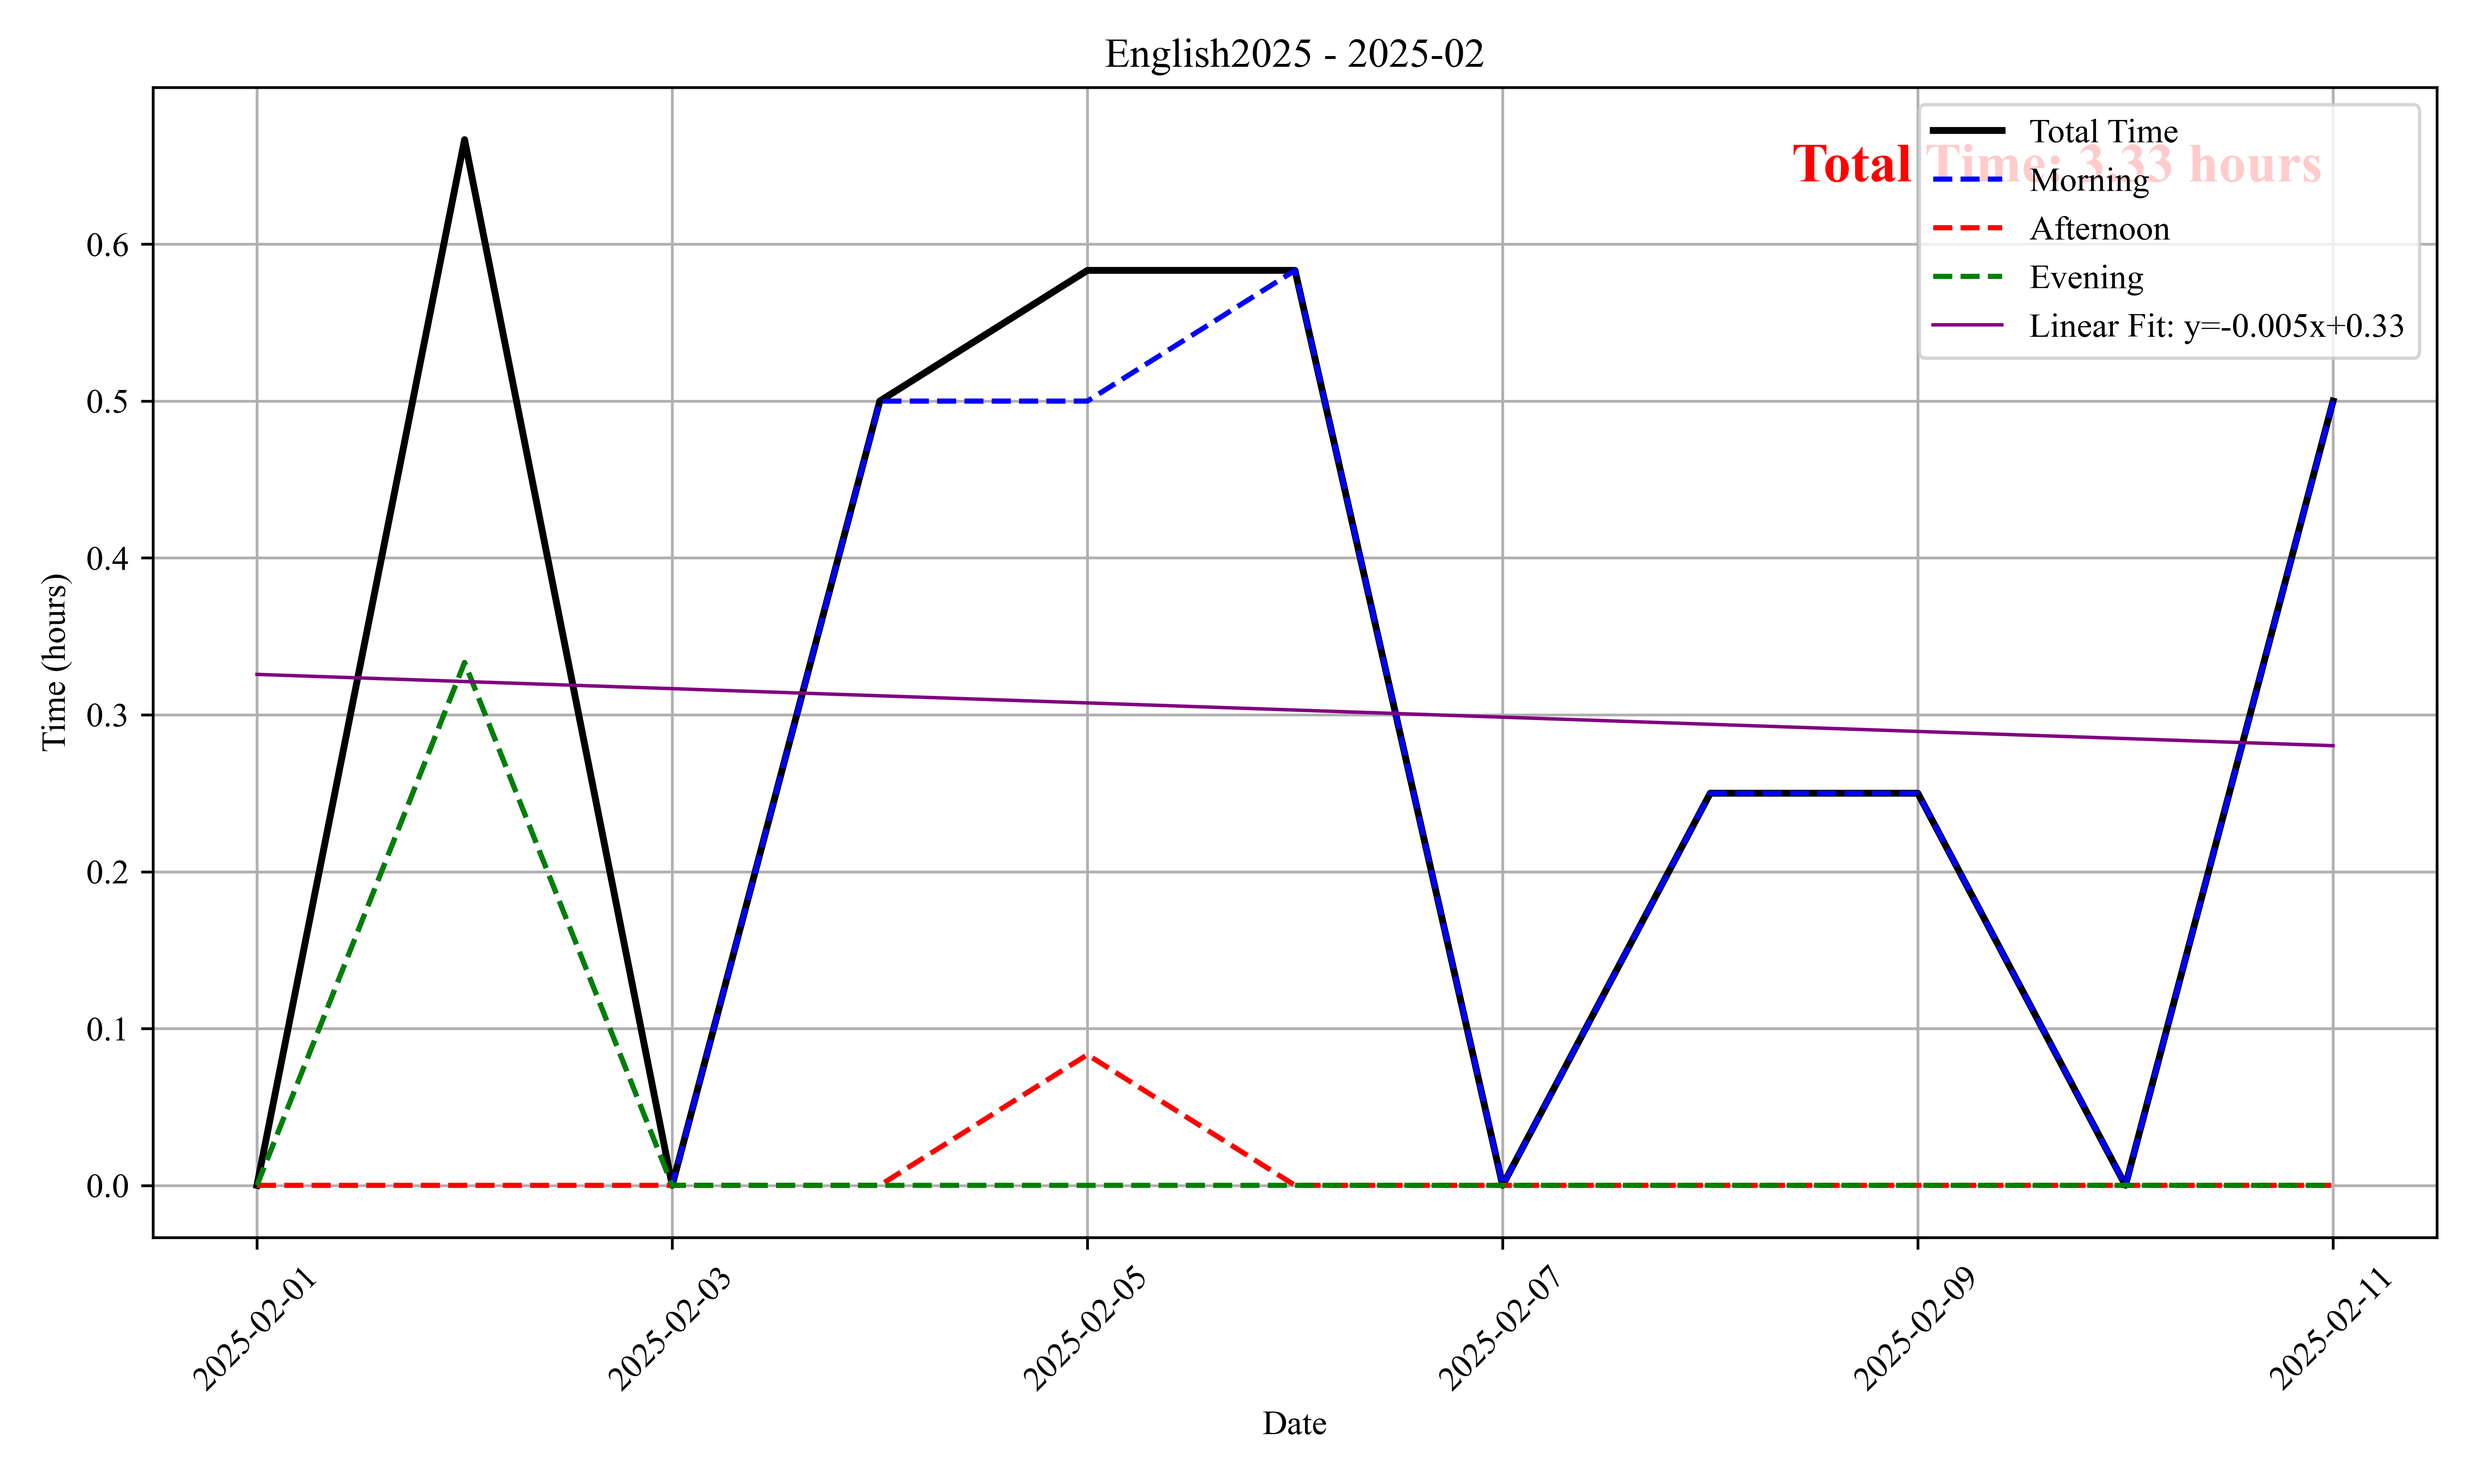
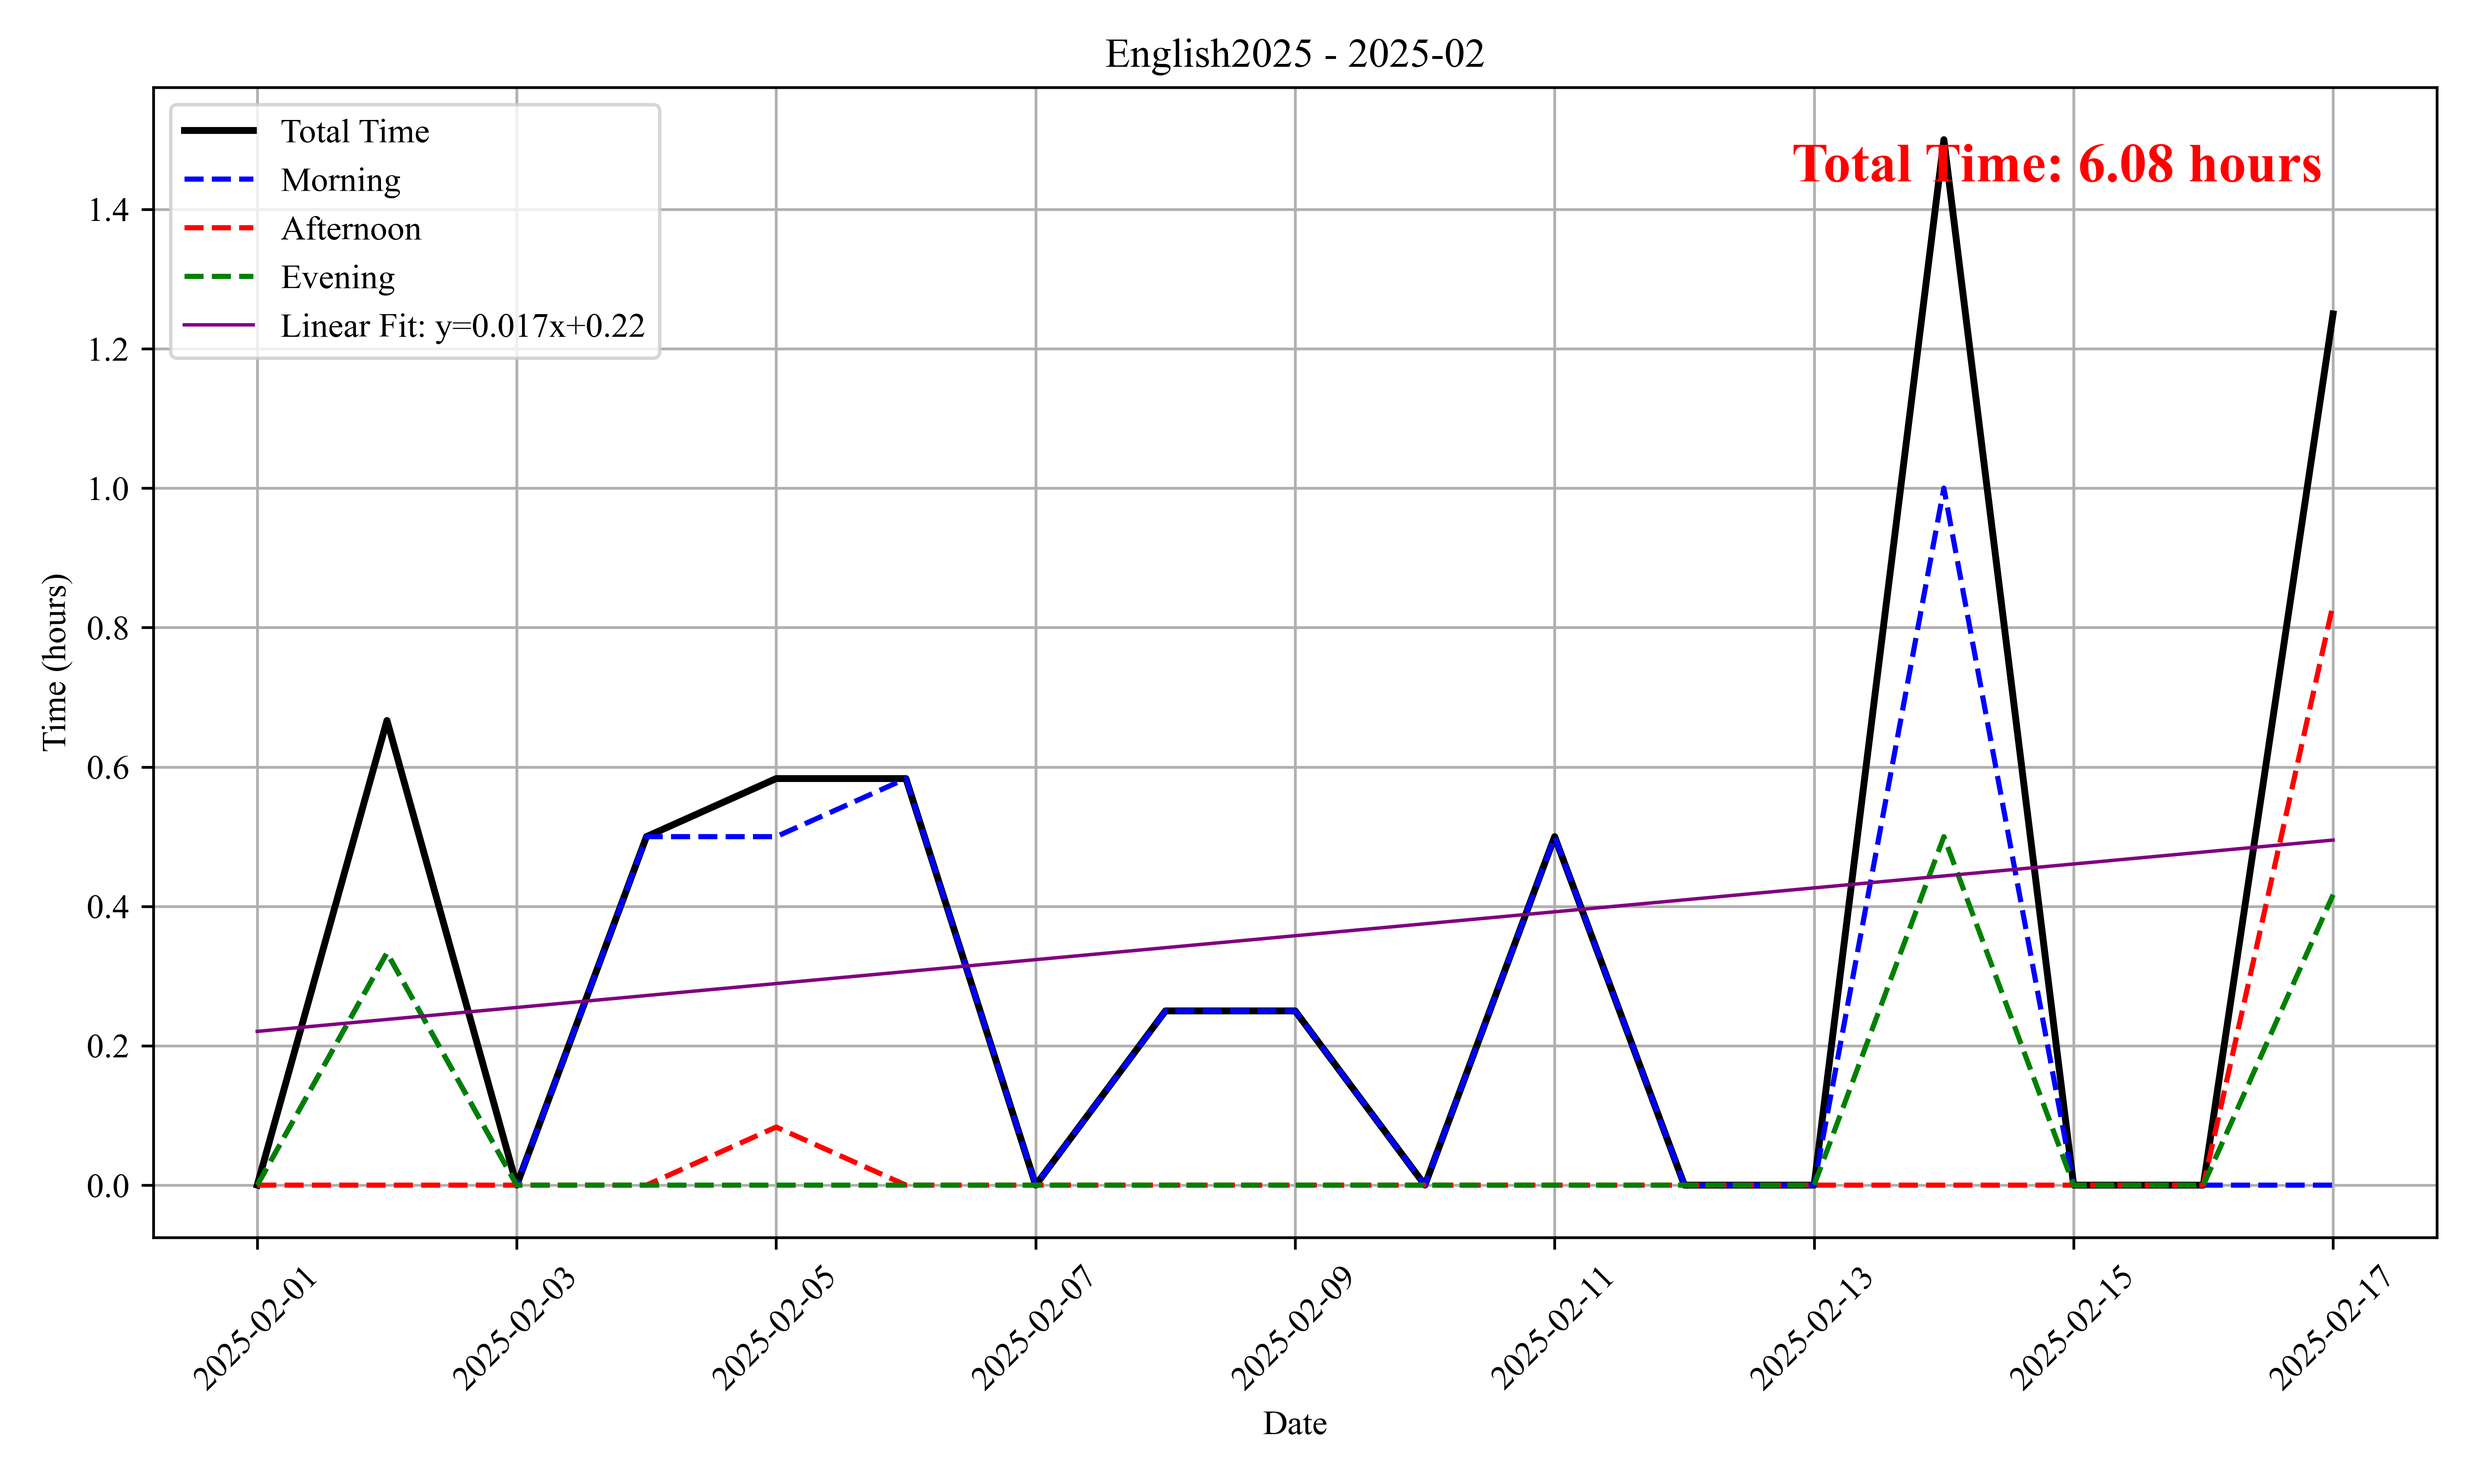
更新2.17

diff --git a/data/学习时长.md b/data/学习时长.md
@@ -171,7 +171,9 @@
 | 2.13 | 10:15-11:00, 16:05-16:35 | |
 | 2.14 | 9:20-10:45, 14:00-15:45, 19:40-21:20 | |
 | 2.15 | 10:00-11:00 | |
-| 2.16 | 10:50-11:35 | | 
+| 2.16 | 10:50-11:35 | |
+| 2.17 | 8:15-9:45, 10:20-11:45, 14:10-15:35, 17:20-19:30 | |
+
 
 
 </div>
@@ -219,7 +221,8 @@
 | 2.8 | 11:15-11:30 | |
 | 2.9 | 11:30-11:45 | |
 | 2.11 | 11:30-12:00 | |
-
+| 2.14 | 11:00-12:00, 19:00-19:30 | |
+| 2.17 | 16:00-16:50, 19:30-19:55 | |
 
 </div>
 
